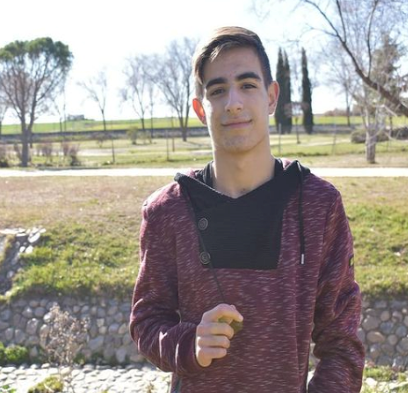
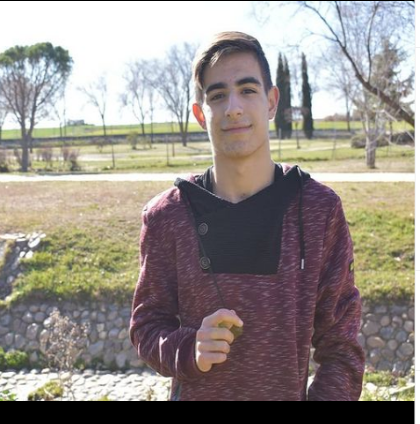
Create AboutUs page
In this commit we create the about us page and we also modify the team assets.

diff --git a/FlexStart/AboutUs.html b/FlexStart/AboutUs.html
@@ -1,0 +1,172 @@
+<!DOCTYPE html>
+<html lang="en">
+
+<head>
+  <meta charset="utf-8">
+  <meta content="width=device-width, initial-scale=1.0" name="viewport">
+
+  <title>Growing - About us</title>
+  <meta content="" name="description">
+
+  <meta content="" name="keywords">
+
+  <!-- Favicons -->
+
+  <link href="assets/img/favicon.png" rel="icon">
+  <link href="assets/img/apple-touch-icon.png" rel="apple-touch-icon">
+
+  <!-- Google Fonts -->
+  <link href="https://fonts.googleapis.com/css?family=Open+Sans:300,300i,400,400i,600,600i,700,700i|Nunito:300,300i,400,400i,600,600i,700,700i|Poppins:300,300i,400,400i,500,500i,600,600i,700,700i" rel="stylesheet">
+
+  <!-- Vendor CSS Files -->
+  <link href="assets/vendor/bootstrap/css/bootstrap.min.css" rel="stylesheet">
+  <link href="assets/vendor/bootstrap-icons/bootstrap-icons.css" rel="stylesheet">
+  <link href="assets/vendor/aos/aos.css" rel="stylesheet">
+  <link href="assets/vendor/remixicon/remixicon.css" rel="stylesheet">
+  <link href="assets/vendor/swiper/swiper-bundle.min.css" rel="stylesheet">
+  <link href="assets/vendor/glightbox/css/glightbox.min.css" rel="stylesheet">
+
+  <!-- Template Main CSS File -->
+  <link href="assets/css/style.css" rel="stylesheet">
+
+  <!-- =======================================================
+  * Template Name: FlexStart - v1.1.1
+  * Template URL: https://bootstrapmade.com/flexstart-bootstrap-startup-template/
+  * Author: BootstrapMade.com
+  * License: https://bootstrapmade.com/license/
+  ======================================================== -->
+</head>
+
+<body>
+
+<!-- ======= Header ======= -->
+<header id="header" class="header fixed-top">
+    <div class="container-fluid container-xl d-flex align-items-center justify-content-between">
+
+        <a href="index.html" class="logo d-flex align-items-center">
+            <img src="images/growingLogo.png" alt="">
+        </a>
+
+        <nav id="navbar" class="navbar">
+            <ul>
+                <li><a class="nav-link scrollto" href="./index.html">Home</a></li>
+                <li><a class="nav-link scrollto" href="./categories.html">Categories</a></li>
+                <li><a class="nav-link scrollto active" href="#">Explore</a></li>
+                <li><a class="nav-link scrollto" href="#about">About us</a></li>
+                <li><a class="getstarted scrollto" href="">Get started</a></li>
+            </ul>
+            <i class="bi bi-list mobile-nav-toggle"></i>
+        </nav><!-- .navbar -->
+
+    </div>
+</header><!-- End Header -->
+
+
+<!-- ======= Team Section ======= -->
+
+<section id="team" class="team">
+
+    <div class="container" data-aos="fade-left">
+
+        <header class="section-header category">
+            <div class="justify-content-center">
+                <h1>ABOUT US</h1>
+                <h2 class="subtitle">We are a team of software engineering stundents working on this web looking forward to learn web development</h2>
+            </div>
+        </header>
+
+        <div class="row gy-4">
+
+            <div class="col-lg-3 col-md-6 d-flex align-items-stretch" data-aos="fade-up" data-aos-delay="100">
+                <div class="member">
+                    <div class="member-img">
+                        <img src="assets/img/team/team-1.png" class="img-fluid" alt="">
+                    </div>
+                    <div class="member-info">
+                        <h4>Flavia Vásquez Gutiérrez</h4>
+                        <span>I+D</span>
+                        <p>Hello there, I am the responsible of new technologies which we use in the web app</p>
+                    </div>
+                </div>
+            </div>
+
+            <div class="col-lg-3 col-md-6 d-flex align-items-stretch" data-aos="fade-up" data-aos-delay="200">
+                <div class="member">
+                    <div class="member-img">
+                        <img src="assets/img/team/team-2.PNG" class="img-fluid" alt="">
+                    </div>
+                    <div class="member-info">
+                        <h4>Antonio Agudo Esperanza</h4>
+                        <span>Idea developer</span>
+                        <p>Hello, I am the person who had the original idea</p>
+                    </div>
+                </div>
+            </div>
+
+            <div class="col-lg-3 col-md-6 d-flex align-items-stretch" data-aos="fade-up" data-aos-delay="300">
+                <div class="member">
+                    <div class="member-img">
+                        <img src="assets/img/team/team-3.PNG" class="img-fluid" alt="">
+                    </div>
+                    <div class="member-info">
+                        <h4>Jorge Adame Prudencio</h4>
+                        <span>Expert at HCI</span>
+                        <p>Hello, I am the responsible of making a good UI for the clients and having a good UX reviewing aspects like usability. Although, I participate on backend to make a good feedback to the users.</p>
+                    </div>
+                </div>
+            </div>
+
+            <div class="col-lg-3 col-md-6 d-flex align-items-stretch" data-aos="fade-up" data-aos-delay="400">
+                <div class="member">
+                    <div class="member-img">
+                        <img src="assets/img/team/team-4.PNG" class="img-fluid" alt="">
+                    </div>
+                    <div class="member-info">
+                        <h4>Marcos Robles Rodríguez	</h4>
+                        <span>Expert on VCS</span>
+                        <p>Hi, I am the responsible of the VCS of the project and I also work on the algorithms and backend. I also work on the frontend when needed</p>
+                    </div>
+                </div>
+            </div>
+
+        </div>
+
+    </div>
+
+</section><!-- End Team Section -->
+
+
+</main><!-- End #main -->
+
+<!-- ======= Footer ======= -->
+<footer id="footer" class="footer">
+    <div class="container">
+        <div class="copyright">
+            &copy; Copyright <strong><span>FlexStart</span></strong>. All Rights Reserved
+        </div>
+        <div class="credits">
+            <!-- All the links in the footer should remain intact. -->
+            <!-- You can delete the links only if you purchased the pro version. -->
+            <!-- Licensing information: https://bootstrapmade.com/license/ -->
+            <!-- Purchase the pro version with working PHP/AJAX contact form: https://bootstrapmade.com/flexstart-bootstrap-startup-template/ -->
+            Designed by <a href="https://bootstrapmade.com/">BootstrapMade</a>
+        </div>
+    </div>
+</footer><!-- End Footer -->
+
+<a href="#" class="back-to-top d-flex align-items-center justify-content-center"><i class="bi bi-arrow-up-short"></i></a>
+
+<!-- Vendor JS Files -->
+<script src="assets/vendor/bootstrap/js/bootstrap.bundle.js"></script>
+<script src="assets/vendor/aos/aos.js"></script>
+<script src="assets/vendor/swiper/swiper-bundle.min.js"></script>
+<script src="assets/vendor/purecounter/purecounter.js"></script>
+<script src="assets/vendor/isotope-layout/isotope.pkgd.min.js"></script>
+<script src="assets/vendor/glightbox/js/glightbox.min.js"></script>
+
+<!-- Template Main JS File -->
+<script src="assets/js/main.js"></script>
+
+</body>
+
+</html>
